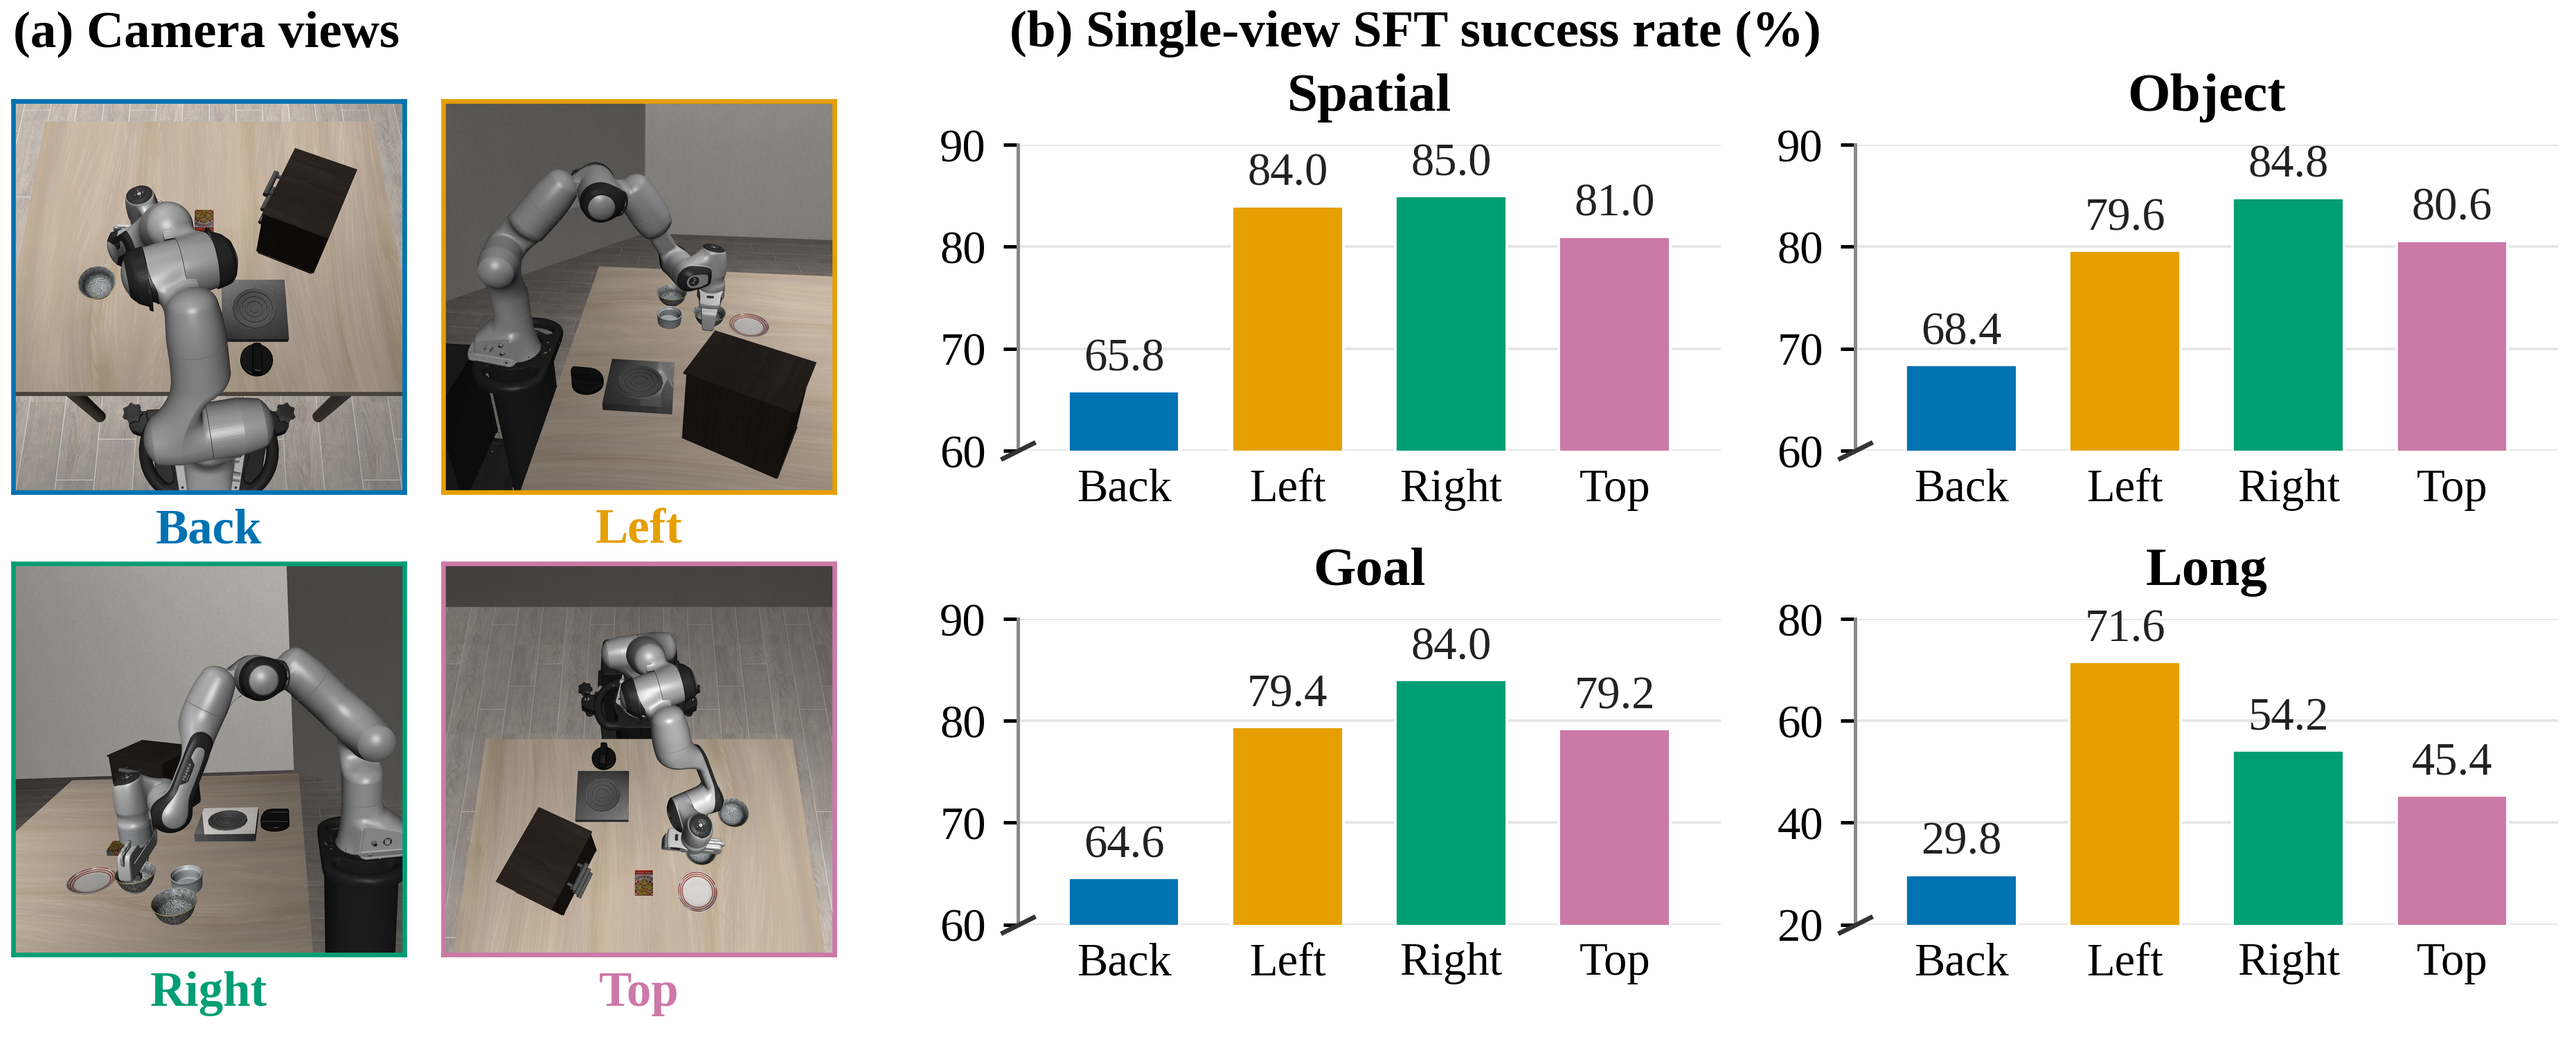
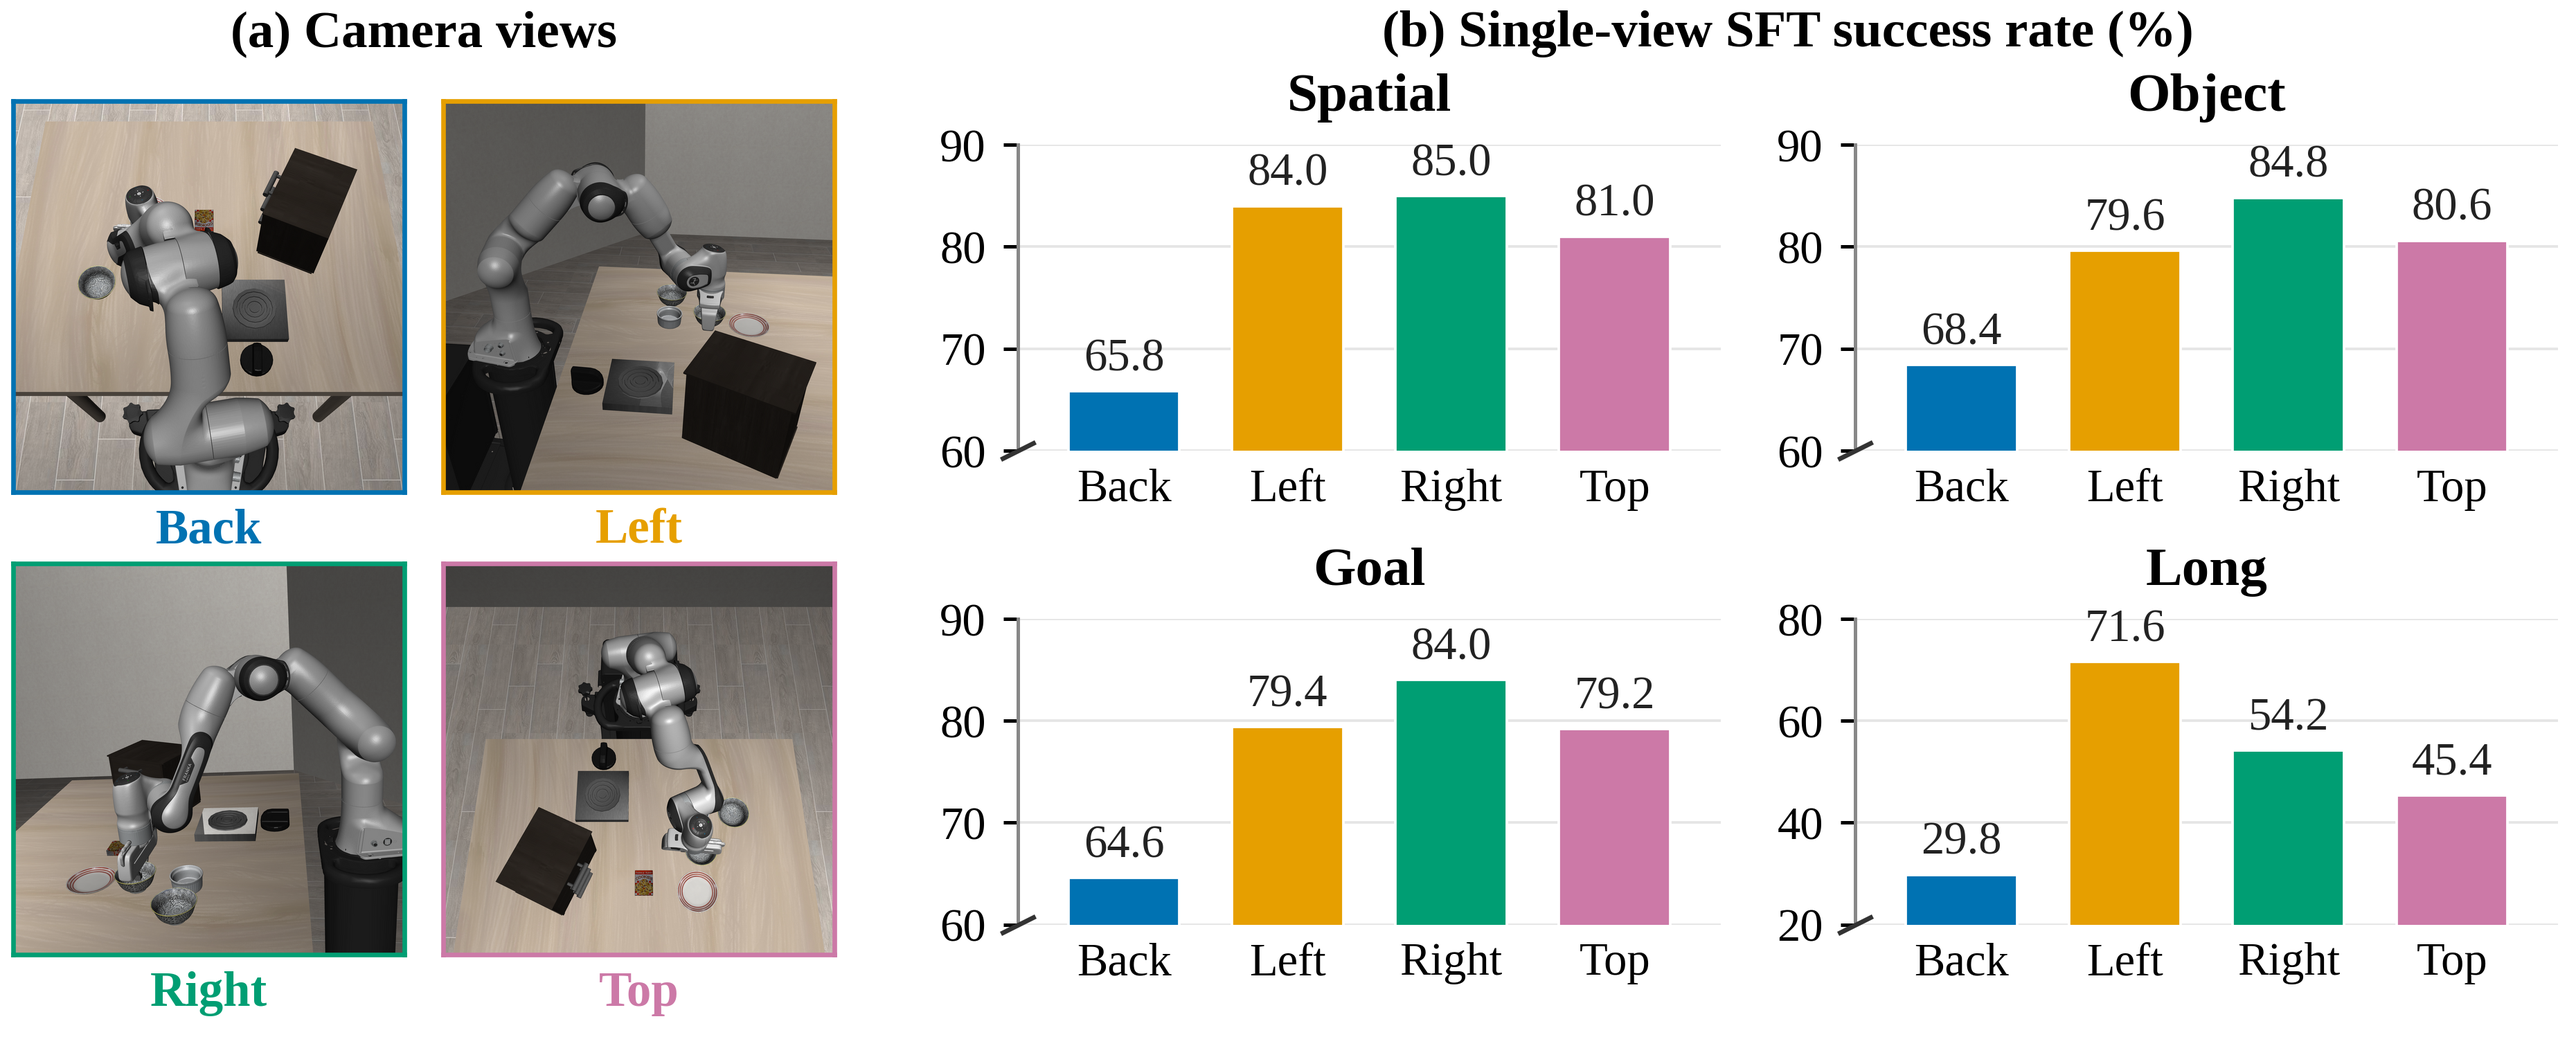
Center Figure 1 panel headings over their component groups

Changed region(s): [[0.3742, 0.0, 0.8419, 0.0622], [0.0, 0.0, 0.2495, 0.0622]]

diff --git a/paper/Figures/gen_fig_viewpoint_performance.py b/paper/Figures/gen_fig_viewpoint_performance.py
@@ -46,7 +46,7 @@ def main():
     )
     fig = plt.figure(figsize=(data["width_cm"] / 2.54, data["height_cm"] / 2.54))
     colors = ["#0072B2", "#E69F00", "#009E73", "#CC79A7"]
-    fig.text(0.005, 0.99, "(a) Camera views", va="top", fontsize=9, fontweight="bold")
+    fig.text(0.1645, 0.99, "(a) Camera views", ha="center", va="top", fontsize=9, fontweight="bold")
     image_width = 0.152
     image_height = image_width * data["width_cm"] / data["height_cm"]
     for i, view in enumerate(data["views"]):
@@ -72,7 +72,7 @@ def main():
             fontsize=8.5,
         )
 
-    fig.text(0.392, 0.99, "(b) Single-view SFT success rate (%)", va="top", fontsize=9, fontweight="bold")
+    fig.text(0.694, 0.99, "(b) Single-view SFT success rate (%)", ha="center", va="top", fontsize=9, fontweight="bold")
     for suite_index, suite in enumerate(data["suite_labels"]):
         left = 0.395 + (suite_index % 2) * 0.325
         bottom = 0.569 if suite_index < 2 else 0.116
